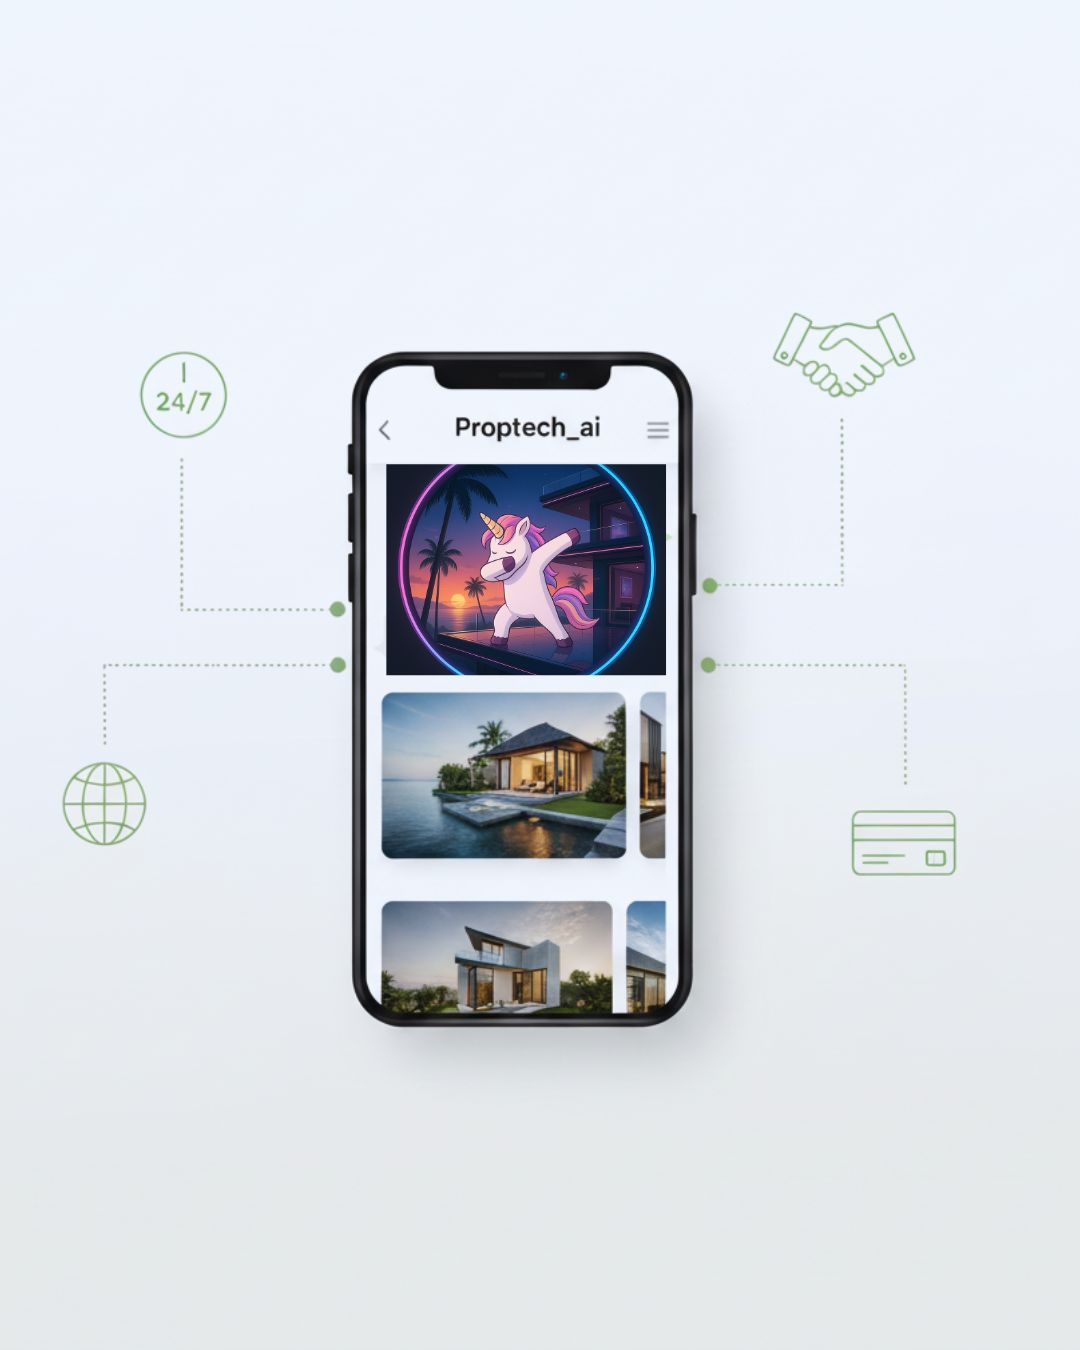
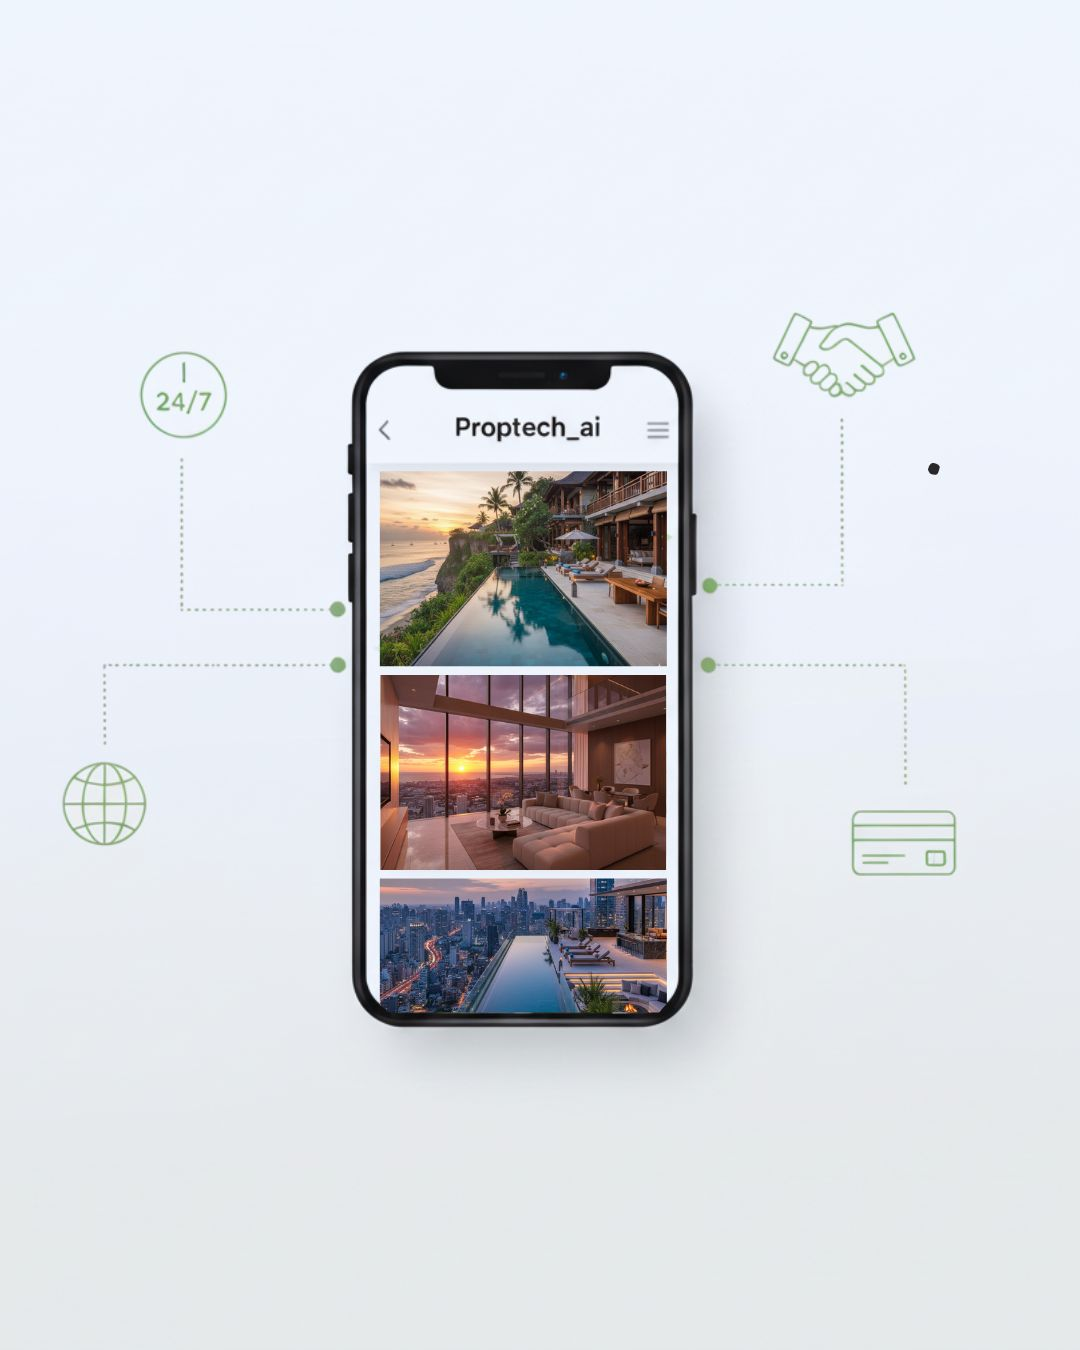
Update CTASection, Header, PricingSection components and add new image asset

Changed region(s): [[0.3361, 0.3422, 0.6417, 0.7778]]

diff --git a/src/components/PricingSection.tsx b/src/components/PricingSection.tsx
@@ -57,7 +57,7 @@ const PricingSection = () => {
                 <span className="font-semibold text-secondary">Готовое решение</span>
               </div>
               <h3 className="text-2xl font-bold text-foreground mb-2">«Под ключ»</h3>
-              <div className="text-4xl font-bold text-primary">75,000 ₽</div>
+              <div className="text-4xl font-bold text-primary">75 000 ₽</div>
               <div className="text-foreground-muted">единоразово</div>
             </div>
 
@@ -71,8 +71,8 @@ const PricingSection = () => {
               ))}
             </div>
 
-            <Button 
-              onClick={() => window.open("https://t.me/proptech_ai_bot", "_blank")}
+            <Button
+              onClick={() => window.open("https://t.me/aleksyogi?text=Здравствуйте,%20хочу%20заказать%20ИИ-агента%20%22под%20ключ%22,%20что%20для%20этого%20нужно?!", "_blank")}
               className="btn-secondary w-full"
             >
               Заказать решение
@@ -87,7 +87,7 @@ const PricingSection = () => {
                 <span className="font-semibold text-primary">Опционально</span>
               </div>
               <h3 className="text-2xl font-bold text-foreground mb-2">Ежемесячное обслуживание</h3>
-              <div className="text-4xl font-bold text-primary">10,000 ₽</div>
+              <div className="text-4xl font-bold text-primary">15 000 ₽</div>
               <div className="text-foreground-muted">в месяц</div>
             </div>
 
@@ -101,12 +101,13 @@ const PricingSection = () => {
               ))}
             </div>
 
-            <Button 
+            <Button
               variant="outline"
-              onClick={() => window.open("https://t.me/aleksyogi", "_blank")}
+              onClick={() => window.open("https://t.me/aleksyogi?text=Добрый%20день.%20Меня%20интересует%20AI-диагностика%20нашей%20воронки%20продаж.%20Хотел%20бы%20понять,%20как%20мы%20можем%20повысить%20её%20эффективность%20с%20помощью%20ваших%20решений.", "_blank")}
               className="btn-outline w-full"
+              style={{ display: 'none' }}
             >
-              Узнать подробнее
+              Получить план роста
             </Button>
           </div>
 
@@ -138,11 +139,11 @@ const PricingSection = () => {
               ))}
             </div>
 
-            <Button 
-              onClick={() => window.open("https://t.me/proptech_ai_bot", "_blank")}
+            <Button
+              onClick={() => window.open("https://t.me/aleksyogi?text=Добрый%20день.%20Меня%20интересует%20AI-диагностика%20нашей%20воронки%20продаж.%20Хотел%20бы%20понять,%20как%20мы%20можем%20повысить%20её%20эффективность%20с%20помощью%20ваших%20решений.", "_blank")}
               className="btn-primary w-full group"
             >
-              Получить персональный расчет
+              Получить план роста
               <ArrowRight className="ml-2 h-4 w-4 group-hover:translate-x-1 transition-transform" />
             </Button>
           </div>
@@ -165,12 +166,12 @@ const PricingSection = () => {
 
           {/* CTA */}
           <div className="text-center mt-8">
-            <Button 
+            <Button
               size="lg"
-              onClick={() => window.open("https://t.me/proptech_ai_bot", "_blank")}
+              onClick={() => window.open("https://t.me/aleksyogi?text=Добрый%20день.%20Меня%20интересует%20AI-диагностика%20нашей%20воронки%20продаж.%20Хотел%20бы%20понять,%20как%20мы%20можем%20повысить%20её%20эффективность%20с%20помощью%20ваших%20решений.", "_blank")}
               className="btn-primary text-xl px-12 py-6 group"
             >
-              Получить персональный расчет
+              Получить план роста
               <ArrowRight className="ml-2 h-6 w-6 group-hover:translate-x-1 transition-transform" />
             </Button>
           </div>

diff --git a/src/components/Header.tsx b/src/components/Header.tsx
@@ -11,8 +11,7 @@ const Header = () => {
     { name: "Возможности", href: "features" },
     { name: "Результаты", href: "results" },
     { name: "Тарифы", href: "pricing" },
-    { name: "Контакты", href: "contacts" },
-  ];
+ ];
 
   const handleScrollTo = (sectionId) => {
     const section = document.getElementById(sectionId);
@@ -43,18 +42,10 @@ const Header = () => {
           </nav>
           <div className="hidden lg:flex items-center space-x-4">
             <Button
-              variant="outline"
-              size="sm"
-              onClick={() => window.open("https://t.me/aleksyogi", "_blank")}
-              className="btn-outline"
-            >
-              Контакты
-            </Button>
-            <Button
-              onClick={() => window.open("https://t.me/Propertyhubai_bot", "_blank")}
+              onClick={() => window.open("https://t.me/aleksyogi?text=Здравствуйте,%20мне%20интересно%20подробней%20узнать,%20как%20ИИ-агент%20может%20помочь%20в%20том,%20что%20бы%20работать%20меньше,%20а%20зарабатывать%20больше!", "_blank")}
               className="btn-primary"
             >
-              Получить демо
+              Получить аудит бесплатно
             </Button>
           </div>
           <button onClick={() => setIsMenuOpen(!isMenuOpen)} className="lg:hidden p-2 text-foreground-muted hover:text-primary">
@@ -77,17 +68,10 @@ const Header = () => {
             <div className="mt-6 pt-6 border-t border-border space-y-4">
               <div className="flex flex-col space-y-2">
                 <Button
-                  variant="outline"
-                  onClick={() => window.open("https://t.me/aleksyogi", "_blank")}
-                  className="btn-outline w-full justify-center"
-                >
-                  Контакты
-                </Button>
-                <Button
-                  onClick={() => window.open("https://t.me/Propertyhubai_bot", "_blank")}
+                  onClick={() => window.open("https://t.me/aleksyogi?text=Здравствуйте,%20мне%20интересно%20подробней%20узнать,%20как%20ИИ-агент%20может%20помочь%20в%20том,%20что%20бы%20работать%20меньше,%20а%20зарабатывать%20больше!", "_blank")}
                   className="btn-primary w-full justify-center"
                 >
-                  Получить демо
+                  Получить аудит бесплатно
                 </Button>
               </div>
             </div>

diff --git a/src/components/CTASection.tsx b/src/components/CTASection.tsx
@@ -25,8 +25,8 @@ const CTASection = () => {
     {
       icon: MessageCircle,
       label: "Telegram",
-      value: "@AleksYogi", 
-      href: "https://t.me/aleksyogi"
+      value: "@AleksYogi",
+      href: "https://t.me/aleksyogi?text=Здравствуйте!%20Хочу%20узнать%20больше%20о%20вашем%20ИИ-агенте%20для%20недвижимости."
     }
   ];
 
@@ -74,9 +74,9 @@ const CTASection = () => {
               Начните прямо сейчас:
             </h3>
             
-            <Button 
+            <Button
               size="lg"
-              onClick={() => window.open("https://t.me/aleksyogi", "_blank")}
+              onClick={() => window.open("https://t.me/aleksyogi?text=Здравствуйте!%20Хочу%20узнать%20больше%20о%20вашем%20ИИ-агенте%20для%20недвижимости.", "_blank")}
               className="bg-primary-foreground text-primary hover:bg-primary-foreground/90 text-xl px-12 py-6 rounded-xl font-bold shadow-xl hover:shadow-2xl transition-all duration-300 group mb-4"
             >
               🚀 Запись на консультацию
